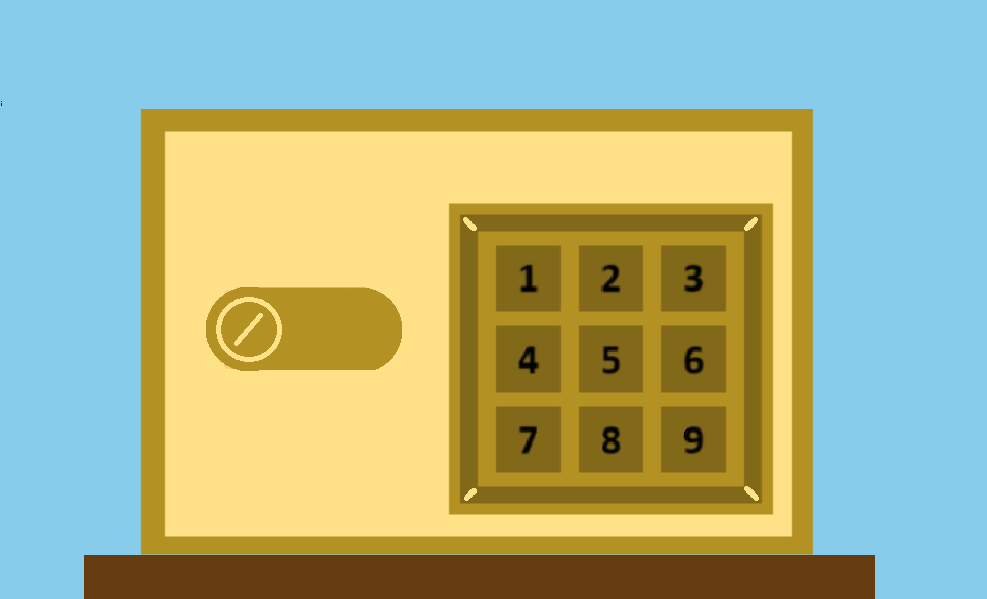
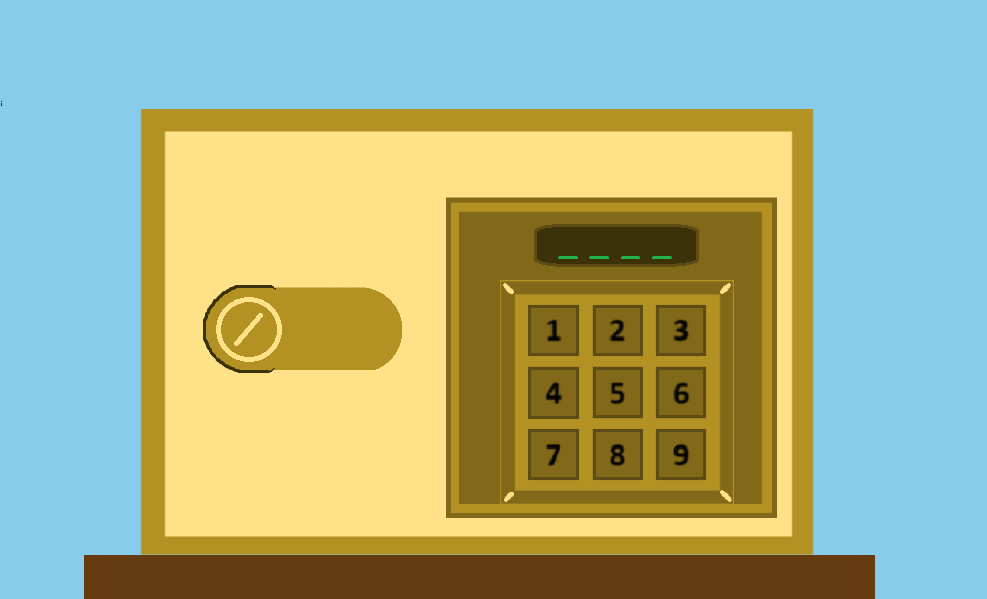
update commit

diff --git a/JS/Room2.js b/JS/Room2.js
@@ -23,6 +23,7 @@ const 금고CoAnText = "금고가 열렸다.";
 const WrAnText = "잘못된 비밀번호다.";
 
 const item__key = document.querySelector(".item__key");
+const item__KeyIMG = document.querySelector(".item__key-IMG");
 let hasKey = 0; //열쇠를 갖고있으면 1, 없으면 0.
 
 //전자기판
@@ -74,7 +75,7 @@ inputForm.addEventListener("submit", (e) => {
 function 금고div(){
      removeHidden(Room2__금고IMG);
      removeHidden(금고input);
-    divText.innerText = "금고다.";
+    divText.innerText = "전자 금고다.";
     if(금고InputAnswer == 금고CorrectAnswer){ 
         addHidden(금고input); 
         divText.innerText = "";
@@ -108,6 +109,8 @@ Room2__금고.addEventListener("click", 금고div);
 //item
 item__key.addEventListener("click", () =>{
     clickDiv();
+     removeHidden(item__KeyIMG);
+    divText.innerText = "열쇠를 얻었다. 서랍을 열 수 있을 것 같다.";
 })
 
 

diff --git a/index.html b/index.html
@@ -46,7 +46,6 @@
         </div>
         <div class="Room2__서랍">
             <div>
-                <div></div>
                 <span></span>
             </div>
             <div>
@@ -107,6 +106,7 @@
             <img class="drawer-IMG imgBox-sizing hidden" src="img/drawer.png"/>
             <img class="electronicBoard-IMG imgBox-sizing hidden" src="img/electronic board.png"/>
             <img class="open-drawer-IMG imgBox-sizing hidden" src="img/OpenDrawer.png"/>
+            <img class="item__key-IMG hidden" src="img/열쇠.png"/>
             <form class="inputForm">
                 <input class="전자기판input hidden input" type="text" maxlength="5"/>
             </form>

diff --git a/JS/code.js b/JS/code.js
@@ -53,7 +53,7 @@ lockedDoor.addEventListener("click",  doorClickDiv);
 //img
 function imgClickDiv(){
      removeHidden(inkImgIMG);
-    divText.innerText = "그림이다. 'INK'옆의 색깔들은 무언가의 힌트일 수도.";
+    divText.innerText = "그림이다. 'INK'옆의 색깔들은 조금 이상하기도 하다.";
 };
 inkImg.addEventListener("click", clickDiv);
 inkImg.addEventListener("click", imgClickDiv);
@@ -82,6 +82,6 @@ divCloseBtn.addEventListener("click",()=>{
     addHidden(Room2__금고IMG);
     addHidden(금고input);
     금고__h3.innerText = "";
-    
 
+    addHidden(item__KeyIMG);
 })

diff --git a/CSS/clickDiv.css b/CSS/clickDiv.css
@@ -5,6 +5,7 @@
     height: 100%;
     width: 100%;
     background-color: rgba(0, 0, 0, 0.5);
+    z-index: 1;
 }
 .divCloseBtn{
     position: relative;
@@ -15,7 +16,7 @@
     border-radius: 50%;
     border: 2px solid black;
     font-size: 18px;
-    z-index: 1;
+    z-index: 2;
 }
 .divCloseBtn:hover{
     background-color: aliceblue;

diff --git a/CSS/Room2.css b/CSS/Room2.css
@@ -26,13 +26,6 @@
     height: 30px;
     background-color:burlywood;
 }
-.Room2__서랍 div div{
-    width: 5px;
-    height: 5px;
-    background-color: gray;
-    border-radius: 50%;
-    border: 2px solid rgb(85, 85, 85);
-}
 .Room2__서랍 div span{
     border-radius: 5px;
     width: 20px;

diff --git a/CSS/item-bar.css b/CSS/item-bar.css
@@ -16,10 +16,18 @@
     padding: 10px;
     border-radius: 5px;
 }
-.imgItem-sizing{
+.item__key{
     position: absolute;
     top: 8px;
     left:150px;
+}
+
+.imgItem-sizing{
     width: 75px;
     height: 75px;
+}
+.item__key-IMG{
+    width: 200px;
+    height: 200px;
+    margin: 10px;
 }
